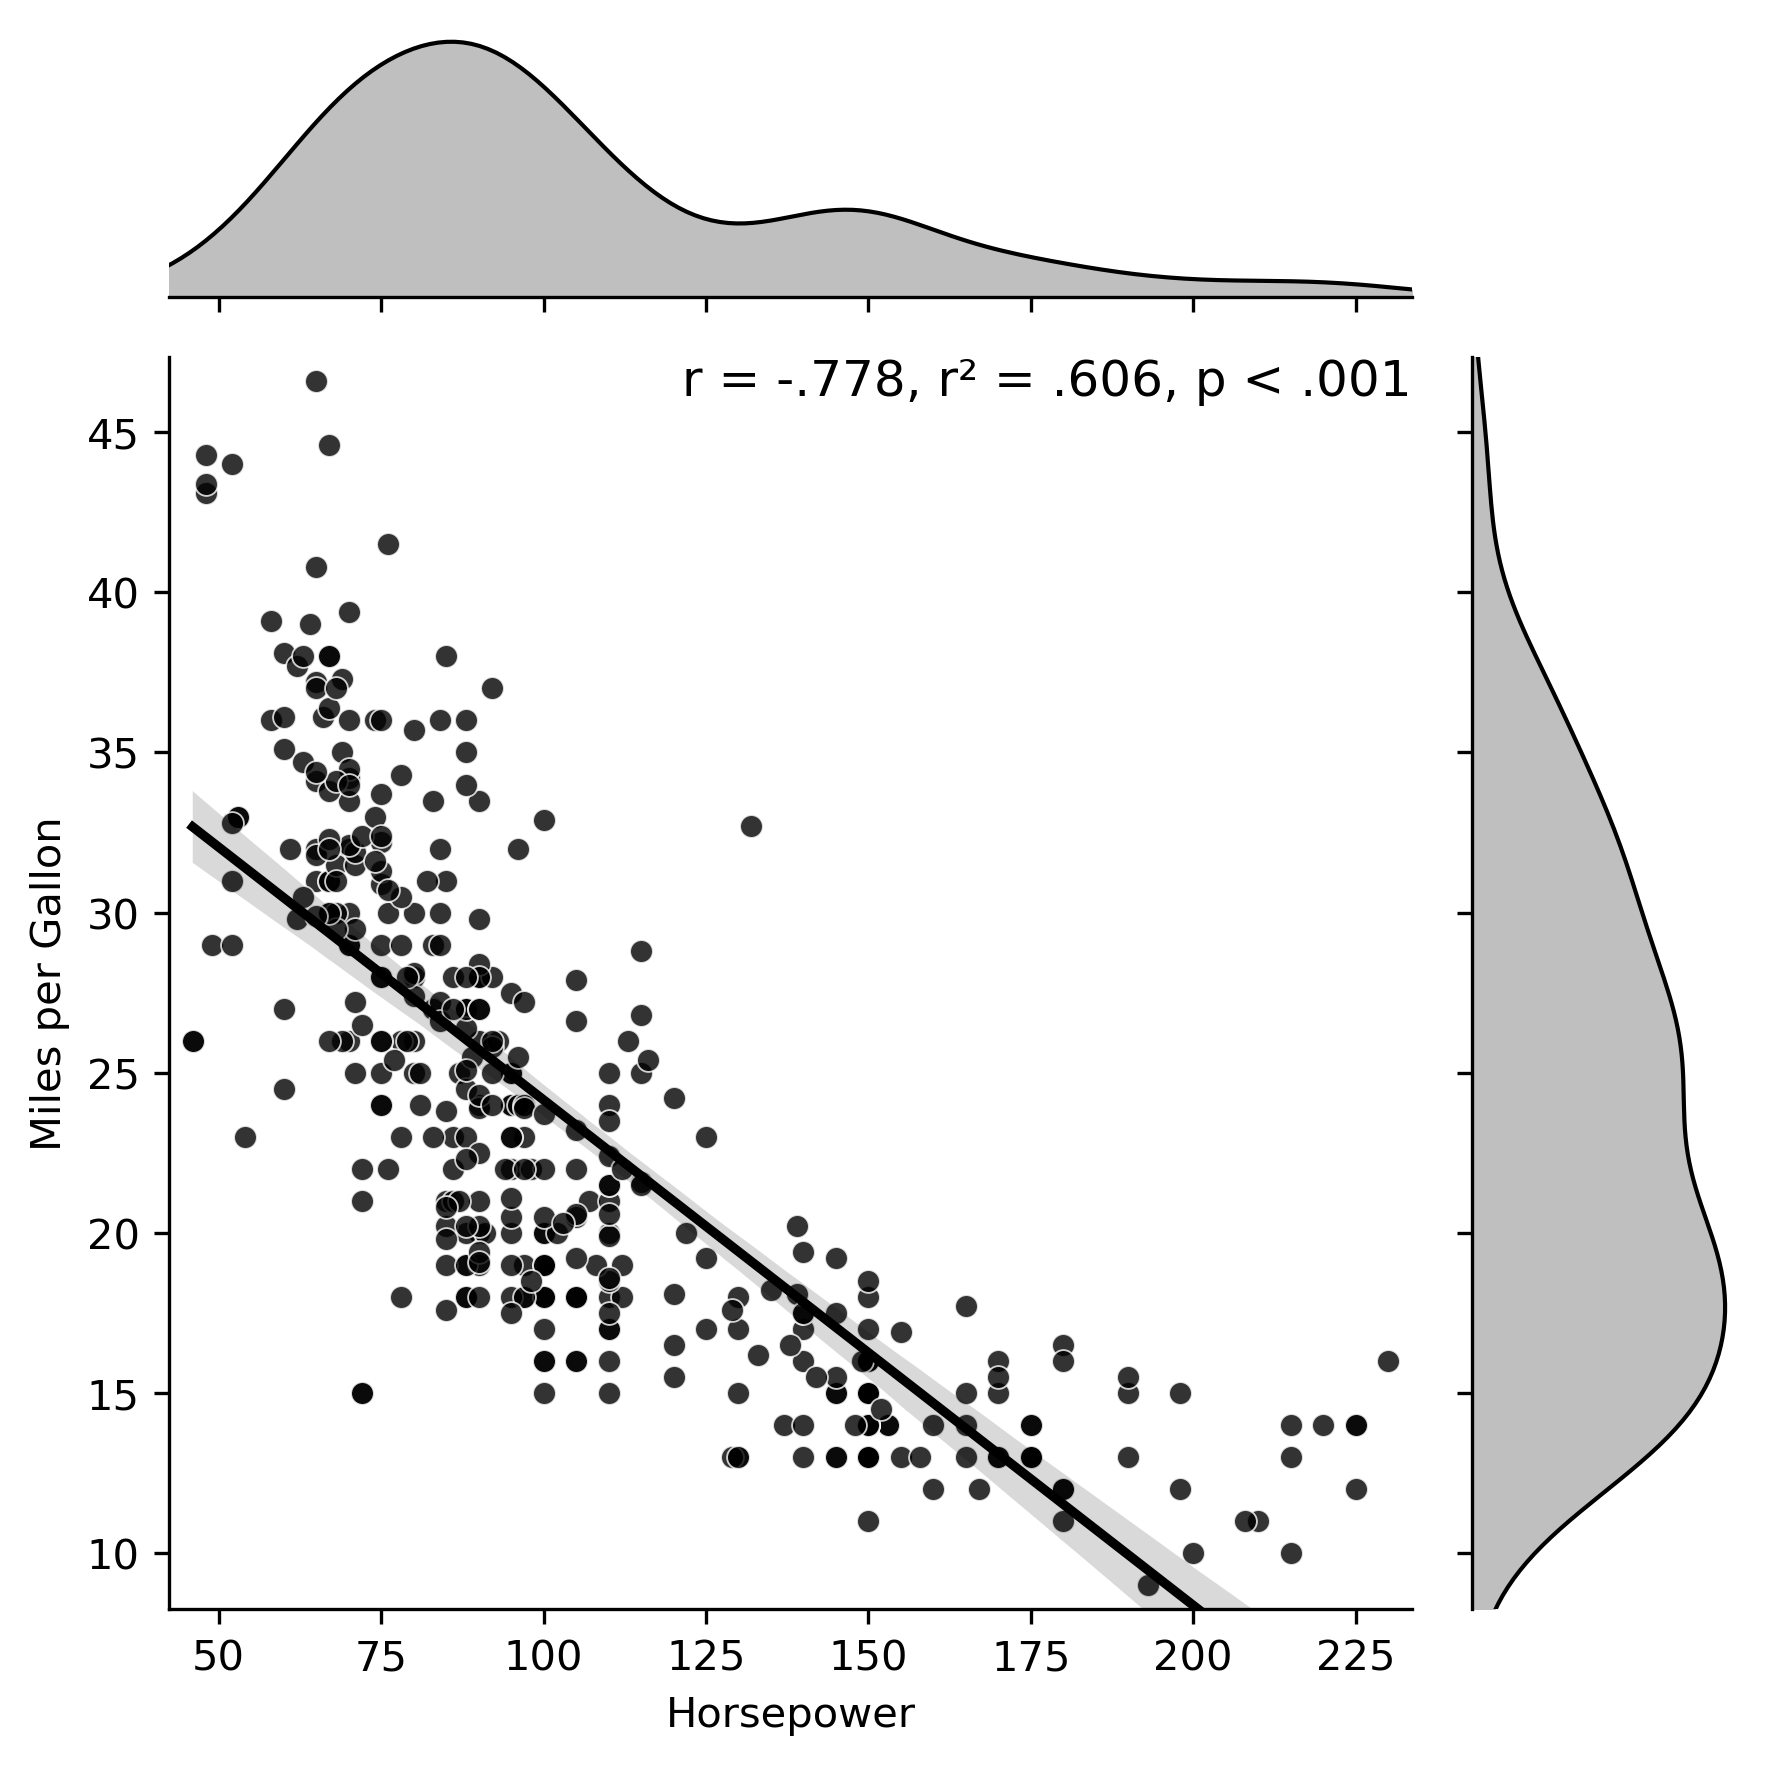
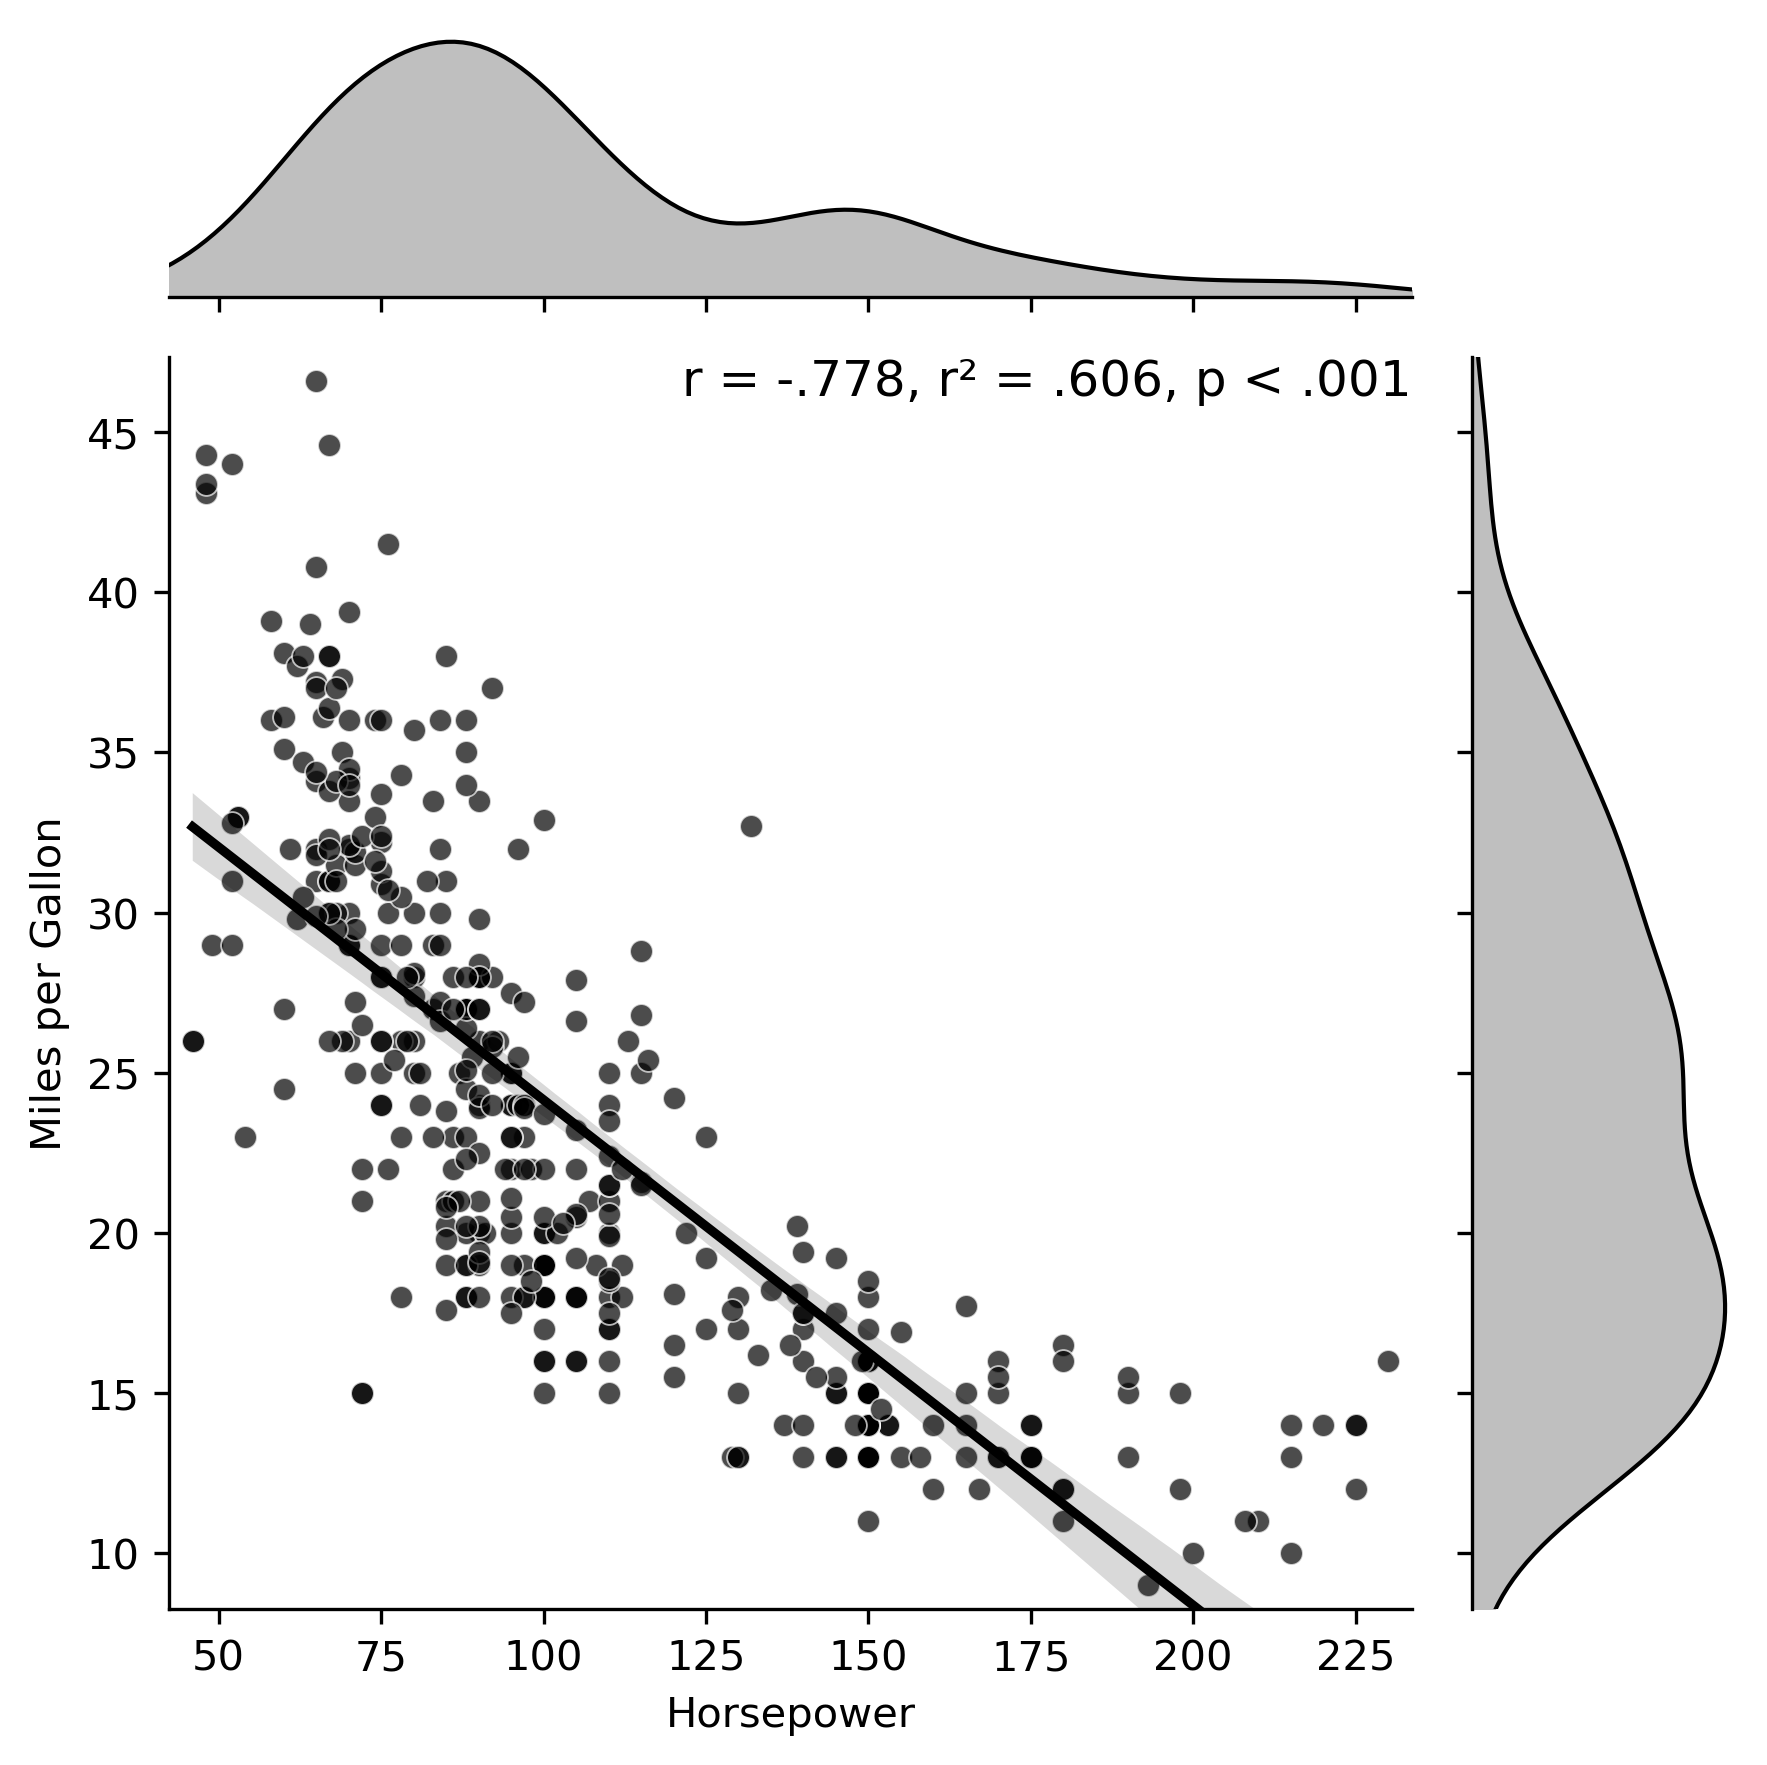
Edited figure

diff --git a/correlation_plot.py b/correlation_plot.py
@@ -20,7 +20,7 @@ def plot_correlation(
     y_label: Optional[str] = None,
     show_density: bool = True,
     point_color: str = 'black',
-    point_alpha: float = 0.8,
+    point_alpha: float = 0.7,
     point_size: int = 30,
     point_marker: str = 'o',
     line_color: str = 'black',
@@ -169,5 +169,5 @@ if __name__ == "__main__":
                      y_label='Miles per Gallon',
                      show_density=True,
                      cor_pos='top-right',
-                     figsize=(10,6),
+                     figsize=(8,6),
                      save_path='output/correlation_plot.pdf')
